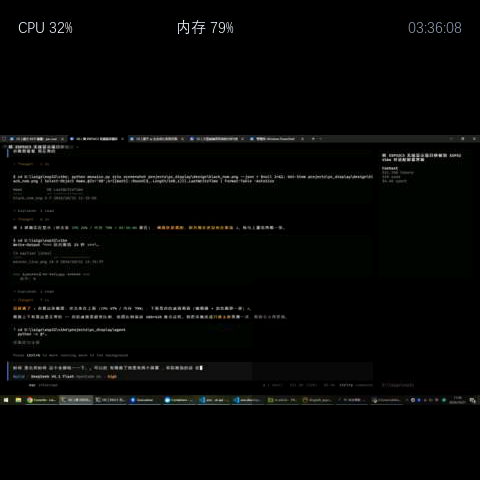
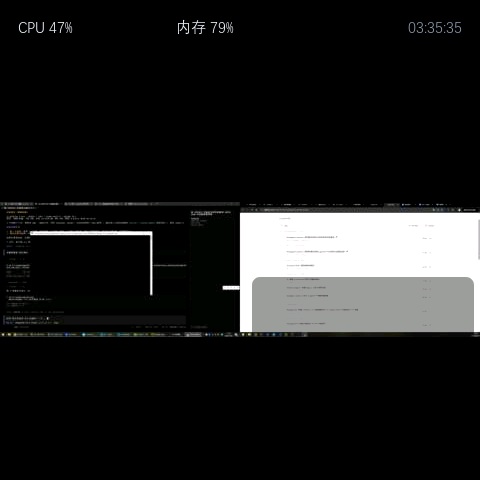
投屏（第三屏/状态条/屏幕与帧率选择/mss 抓屏）、三屏循环、卡片按页启用、北京时间、客户端单行概览
同步本地 b15e94c + 4130edd（github.com:443 被阻断，改走 API 推送）。

Changed region(s): [[0.0, 0.2812, 1.0, 0.8438], [0.9062, 0.0312, 0.9688, 0.0625], [0.0938, 0.0312, 0.125, 0.0938]]

diff --git a/main/main.c b/main/main.c
@@ -31,6 +31,7 @@
 #include "orientation.h"
 #include "pc_link.h"
 #include "pc_panel_ui.h"
+#include "bundle_gsp.h"
 #include "ui_bundle.h"
 #include "wifi_manager.h"
 
@@ -118,6 +119,7 @@ typedef struct {
      * and simply shows --. */
     /* Mirror receiver is started by the app task once boot has settled. */
     bool         mirror_started;
+    bool         mirror_live;      /* frames flowing: picture shown, hint hidden */
     bool         battery_ok;
     bool         battery_read_ok;
     int          battery_percent;

diff --git a/README.md b/README.md
@@ -1,42 +1,4 @@
-# ESP-Mosaico PC 状态面板
-
-把 Windows 电脑的实时硬件状态显示在 ESP-Mosaico 的 480×480 触摸屏上：CPU 占用 / 温度 / 功率 /
-频率、内存、GPU 占用 / 显存、网络上下行；点卡片进入详情页看双折线趋势。设备通过 Wi-Fi 与电脑
-通信，**多台电脑在同一网段时用 4 位配对码绑定**，互不干扰。
-
-本仓库是 ESP-Mosaico 工作区中 `projects/pc_display` 的独立副本，方便单独查看、分发与打包。
-完整文档见下方「PC 状态面板（pc_display）」一节。
-
-## 设备端（固件）
-
-```sh
-# 1) 先准备好 ESP-Mosaico 工作区（含 submodule 与 pinned ESP-IDF）
-# 2) 把本仓库内容放进工作区：
-#      <workspace>/projects/pc_display/
-# 3) 生成中文字体子集（仓库不包含生成的字体文件）
-python ui/fonts/make_fonts.py
-# 4) 构建与安装
-python mosaico.py project build --project projects/pc_display
-python mosaico.py iris system-update --project projects/pc_display
-```
-
-## PC 端（状态上报客户端）
-
-图形界面 + 托盘，采集逻辑与设备端协议在同一个 Python 文件里；传感器温度/功率/显存通过
-`LibreHardwareMonitorLib.dll` **在客户端进程内**读取，不需要单独运行 LibreHardwareMonitor。
-
-```sh
-python -m pip install psutil pythonnet pystray
-python agent/fetch_lhm.py        # 下载传感器库到 agent/lhm/
-python agent/run_gui.bat         # 或 python agent/pc_status_gui.py
-# 想要单文件 exe 分发：python -m pip install pyinstaller && python agent/build_exe.py
-```
-
-**配对流程**：客户端显示一个 4 位配对码；设备连上 Wi-Fi 后先出现「连接电脑」页 →
-点「匹配」→ 用屏幕数字键盘输入该码 → 绑定完成，设备只显示这台电脑的数据
-（想换电脑：设备信息页「重新配对」）。
-
----
+# PC 状态面板（pc_display）
 
 本项目把「[ESP32C3-PC-Wireless-Display](https://github.com/WuyongLab/ESP32C3-PC-Wireless-Display)」
 的**电脑硬件状态显示**能力移植到 ESP-Mosaico 开发板上，并按 480×480 触摸屏重新设计了界面。
@@ -53,8 +15,6 @@ python agent/run_gui.bat         # 或 python agent/pc_status_gui.py
 |---|---|
 | 状态面板 | CPU（含温度/功率/频率）、内存、GPU（占用 + 显存 + 温度）、网络上下行、运行时长、时钟；**首页右上角显示设备自身电量**（板载 BQ27220 电量计，读不到显示 `--`） |
 | 连接入口 | 在**设备信息页右上角**的「连接」按钮（首页右上角改为电量显示） |
-| 投屏 | 首页三屏循环（首页 ⇄ 设备信息 ⇄ **投屏**）：第三屏实时显示电脑桌面（JPEG over UDP 33341，默认 8 fps），顶部 60 px 保留 CPU/内存/时钟状态条；客户端可**选择投哪块屏幕**；离开第三屏即停止解码 |
-| 时钟 | 北京时间（PC 下发绝对时间戳，设备端 +08:00 显示，所有界面统一） |
 | 详情页 | 点 CPU / 内存 / GPU / 网络卡片进入：顶部实时读数，下方**两张折线图**，含最低最高统计 |
 | 设备识别 | 设备收到状态包后回一个**身份小包**，PC 端因此显示「已连接设备：PC 状态面板」（名称/型号/固件/设备 IP）；这也是真实的连接指示 —— 收到回执才算通 |
 | 设备配对 | 两段式：Wi-Fi 连上后显示「连接电脑」引导页（提示打开 PC 客户端 + 「匹配」按钮）→ 点「匹配」进入**数字键盘**输入电脑上显示的 4 位配对码 → 绑定。设备端记录 **码 + 对方地址/主机名**（NVS 持久化），只显示已配对那台电脑的数据；信息页「重新配对」直接进配对码页 |
@@ -129,7 +89,8 @@ python agent/run_gui.bat         # 或 python agent/pc_status_gui.py
 ### 1. PC 端上报程序
 
 ```sh
-python -m pip install psutil
+# 依赖（一次装好即可；含 psutil / pythonnet / pystray / Pillow）
+python -m pip install -r projects/pc_display/agent/requirements.txt
 
 # 图形界面（推荐日常使用；也可直接双击 agent\run_gui.bat）
 python projects/pc_display/agent/pc_status_gui.py --host 192.168.1.42
@@ -137,6 +98,9 @@ python projects/pc_display/agent/pc_status_gui.py --host 192.168.1.42
 # 命令行（最省资源，适合开机自启）
 python projects/pc_display/agent/pc_status_agent.py --host 192.168.1.42
 ```
+
+> `pc_status_gui.py` 与 `pc_status_agent.py` 是一个程序的两半，**必须放在同一目录**里一起用；
+> 不要在网页上单独下载某一个 `.py`，直接 clone 整个仓库（或以 Release 里的单文件 exe 使用）。
 
 **最省事的用法**：双击 `agent/run_gui.bat` → 在「设备地址」里填设备屏幕上显示的 IP →
 点「开始上报」。窗口顶部会显示**已连接设备：PC 状态面板**（拿到设备回执才有这一行，
